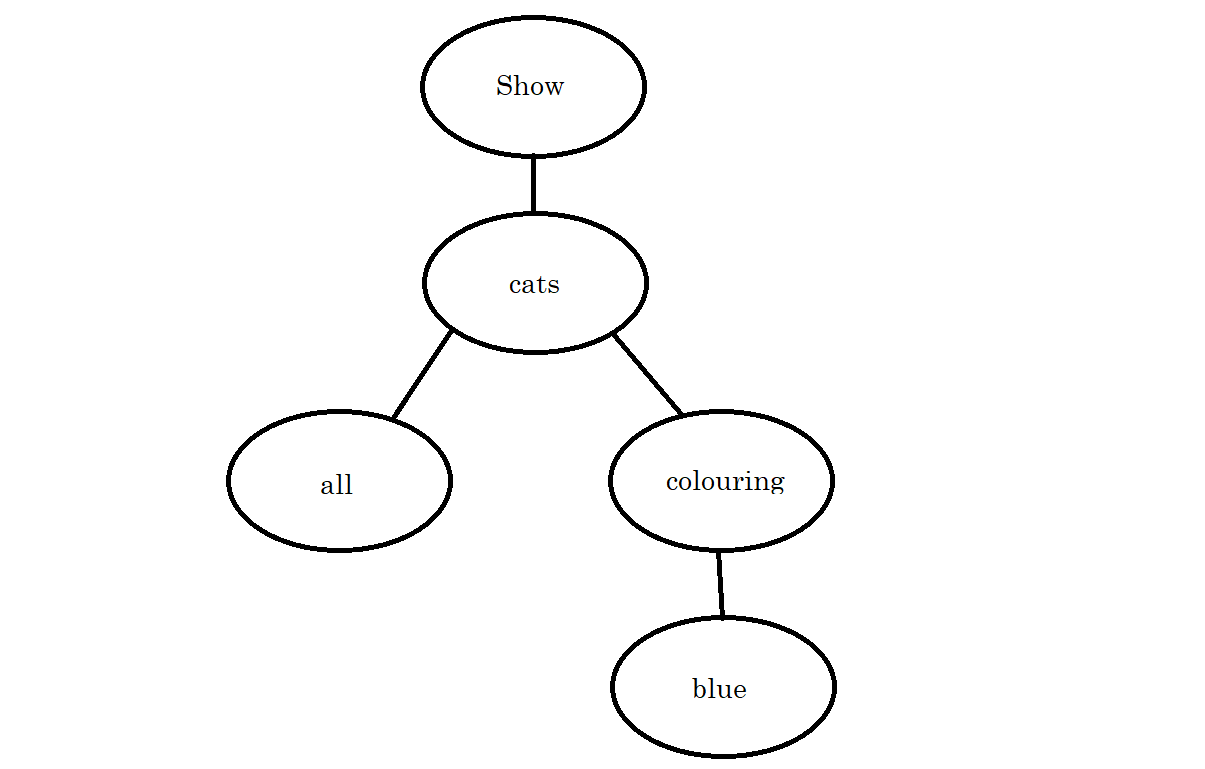
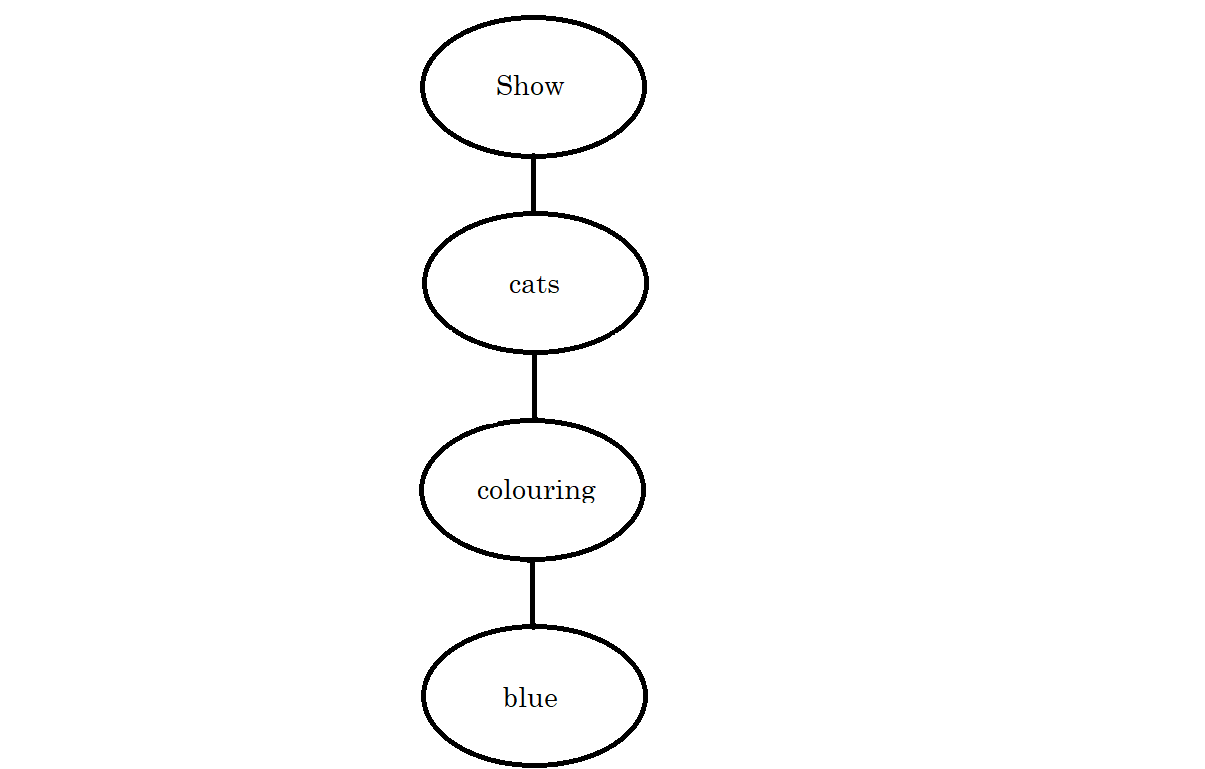
Completed NLP algorithm & Test API documentation

diff --git a/documentation/TechnicalReport/TechnicalReport.html b/documentation/TechnicalReport/TechnicalReport.html
@@ -152,10 +152,10 @@
 				</li>
                 <li>
 					<em>Identifying the attribute values: </em>  Natural Language API provides a direct dependency between nouns and 
-					corresponding adjectives, numerals and determiners;
+					corresponding adjectives and numerals;
 				</li>
 				<li>
-					Parts of speech other than nouns, adjectives, numerals, verbs and determiners will be ignored in the tree building process.
+					Parts of speech other than nouns, adjectives, numerals and verbs will be ignored in the tree building process.
 				</li>
             </ul>
 			<p>
@@ -171,22 +171,17 @@
 			<p>
 				&emsp; &emsp;
 				The match for the above request would be GET on path /cats?color=blue. Even though “colouring” resembles “color”, we need a
-				way to match these words. A very good candidate for this would be Word2Vec or any similar tool.
+				way to match these words. A very good candidate for this is WordNet.
 			</p>
 			<p>
 				&emsp; &emsp;
-				“Word2vec is a technique for natural language processing published in 2013. The word2vec algorithm uses a neural network 
-				model to learn word associations from a large corpus of text.” (2) This tool offers the possibility to easily detect 
+				“WordNet is a large lexical database of English. Nouns, verbs, adjectives and adverbs are grouped into sets of cognitive synonyms (synsets), each expressing a distinct concept. 
+				Synsets are interlinked by means of conceptual-semantic and lexical relations. WordNet is also freely and publicly available for download. 
+				WordNet's structure makes it a useful tool for computational linguistics and natural language processing.” (2) This tool offers the possibility to easily detect 
 				synonyms or related words, based on a score. The root verb will always be detected this way. In the beginning of the 
-				algorithm, we can set a default pair for each HTTP verb (for example: GET - “Provide”, POST - “Create”, PUT - “Replace”, 
-				DELETE - “Delete”, PATCH - “Update”). Using Word2Vec, “Show” will be matched with “Provide” with a high score, therefore 
-				matching with GET.
-			</p>
-			<p>
-				&emsp; &emsp;
-				As an observation from the above example, “all” has been kept in the syntactic tree. It is a determiner and it communicates 
-				that all cats should be retrieved. Another valid determiner would be “a” in which case a single cat should be retrieved 
-				(the first one or a random one). There are also examples that should be ignored: “the”, “this”, “few” etc..
+				algorithm, we can set one or multiple default pairs for each HTTP verb (for example: GET - “Retrieve”, POST - [“Create”, "Add"], 
+				PUT - “Replace”, DELETE - [“Delete”, "Exterminate", "Remove], PATCH - “Update”). Using WordNet, “Show” will be matched with “Retrieve” with a 
+				high score, therefore matching with GET.
 			</p>
 			<p>
 				&emsp; &emsp;
@@ -215,9 +210,58 @@
                      Use the text returned as the text <em>typed</em> by our user in incoming steps;
                  </li>
             </ol>
+			<h3 id="nlpImplementation">4.2 NLP Implementation </h3>
+            <p>&emsp; &emsp;
+                As mentioned in Chapter 3, our NLP functionality is deployed in a Google Cloud Function. The algorithm executes the following steps:
+            </p>
+            <ol>
+                <li>
+                   The input is represented by two components: the <em>text_content</em> representing the user's sentence and the 
+				   <em>api_spec_id</em> which is the ID of the API specification to use in the analysis;
+                </li>
+                <li>
+                    Make a call to <a href="https://cloud.google.com/natural-language">Google Cloud Natural Language Processing API</a> using
+					the <em>text_content</em> sentence as input to get the necessary NLP information;
+                 </li>
+                 <li>
+                    Make a call to our own API (GET /apis/{id}, where {id} is the received <em>api_spec_id</em> - <a href="#restApi">see Chapter 5 - Rest API</a>)
+					to get the parsed OpenAPI specification. This will provide a dictionary with two important keys: <em>allowed_operations</em> 
+					(mappings between HTTP verbs and entities) and <em>allowed_attributes</em> (valid attributes for each entity);
+                 </li>
+				 <li>
+					Use the data from steps 2 and 3 to compute the exact steps described in <a href="#NLP"> the beginning of Chapter 4</a>.
+				 </li>
+				 <li>
+					Throw errors in situations like: the matched pair of HTTP verb and entity is not found in the <em>allowed_operations</em>
+					list, there was no entity found with high-enough similarity (minimum 60%), the input provided is in the wrong format etc..
+				 </li>
+				 <li>
+					After every step executed successfully, respond with: matched HTTP verb, matched path, query parameter string for GET and 
+					DELETE verbs OR request body for POST, PUT and PATCH.
+				 </li>
+            </ol>
+			<h3 id="nlpLimitations">4.3 NLP Algorithm limitations </h3>
+			<p>&emsp; &emsp;
+                The algorithm used for the RAT project, even though it can parse sentences and match words by their similarity, it also has some limitations:
+			</p>
+			<ul>
+				<li>
+					Although <a href="https://cloud.google.com/natural-language">Google Cloud Natural Language Processing API</a> offers multilingual support,
+					WordNet is unfortunately limited to the English vocabulary, as stated in <a href="#bibliography"> bibliography, (2)</a>. Therefore, 
+					only english sentences can be handled in our project;
+				</li>
+				<li>
+					The entity names and attributes from the API specifications cannot contain symbols like '-', '_' etc.. If they do, WordNet cannot recognize
+					them as English words;
+				</li>
+				<li>
+					The algorithm does not support paths having depth > 1 (for example, /felines/{id}/owners). It is limited to only finding
+					a main entity and taking it as the path.
+				</li>
+			</ul>
         </section>
         <section>
-            <h2>5. Rest API</h2>
+            <h2 id="restApi">5. Rest API</h2>
             <p> &emsp; &emsp;
                 The following routes will be <em>necessary but not sufficient</em> for our project:
             </p>
@@ -258,11 +302,66 @@
             </p>
 
         </section>
+		<section>
+			<h2>7. Test API</h2>
+			<p> 
+				&emsp; &emsp; 
+				In order to easily test and demo our project, we decided to create a simple API that proves the concept of RAT: Bugs, Cats & Weapons API!
+				It consists of three main entities: felines, bugs and weapons and each of them are compatible with different combinations of HTTP verbs
+				to demonstrate the error handling mechanism from the NLP algorithm:
+			</p>
+				<ul>
+					<li>
+						/feline - GET, PUT, PATCH, DELETE
+					</li>
+					<li>
+						/bug - DELETE
+					</li>
+					<li>
+						/weapon - POST, PUT
+					</li>
+				</ul>
+			<p>
+				For example, the sentence "Create a cockroach with brown color and six legs.", matching POST on path /bug, will throw an error at the
+				NLP function level because the operation is not supported. 
+			</p>
+			<p>
+				The simplicity of this API is brought by the fact that all routes will return a <em>Generic Response</em>, meaning a simple message
+				containing important request data: verb, path and parameters.
+				Bugs, Cats & Weapons API is sufficient for the scope of this project since it respects the created OPEN API specification. The only missing concept is
+				data persistence.
+			</p>
+			<p>
+				For the test API, we used a separate <a href="https://cloud.google.com/api-gateway">Google Cloud API Gateway </a> to ensure 
+				authentication and Open API specification compliance, respectively <a href="https://cloud.google.com/functions">Google Cloud Functions</a>
+				as computation provider. We can also observe logs to check that the API is indeed being called. 
+			</p>
+		</section>
+		<section>
+			<h2> 8. Future plans </h2>
+			<p>
+				&emsp; &emsp;
+				This implementation for the RAT project, even though it satisfies the majority of the specifications, it still needs work on certain areas
+				for improvement:
+			</p>
+			<ul>
+				<li>
+					Address the NLP limitations mentioned in <a href = "#nlpLimitations">section 4.3</a>;
+				</li>
+				<li>
+					Implement a way to determine API credentials dynamically. As this information is not stored in the API specification, another way must be
+					found to keep this. At the same time, multiple types of auth have to be treated;
+				</li>
+				<li>
+					Auth mechanism for our own APIs, such that not everyone can add new specifications etc..
+				</li>
+			</ul>
+		</section>
         <section>
-            <h2>7. Bibliography</h2>
+            <h2 id="bibliography">9. Bibliography</h2>
             <ol>
 				<li> <a href="https://cloud.google.com/natural-language/docs/basics">Google Cloud - Natural Language API</a> </li>
-				<li> <a href="https://en.wikipedia.org/wiki/Word2vec">Word2Vec - Word Association tool</a> </li>
+				<li> <a href="https://wordnet.princeton.edu/">WordNet - Word Association tool</a> </li>
 				<li> <a href="https://arxiv.org/pdf/2007.15280.pdf">PHOTON: A Robust Cross-Domain Text-to-SQL System - Jichuan Zeng, Xi Victoria Lin,
 				Caiming Xiong, Richard Socher, Michael R. Lyu, Irwin King, Steven C.H. Hoi</a> </li>
 				<li> <a href="https://cloud.google.com/api-gateway/docs">Google Cloud - API Gateway </a> </li>
